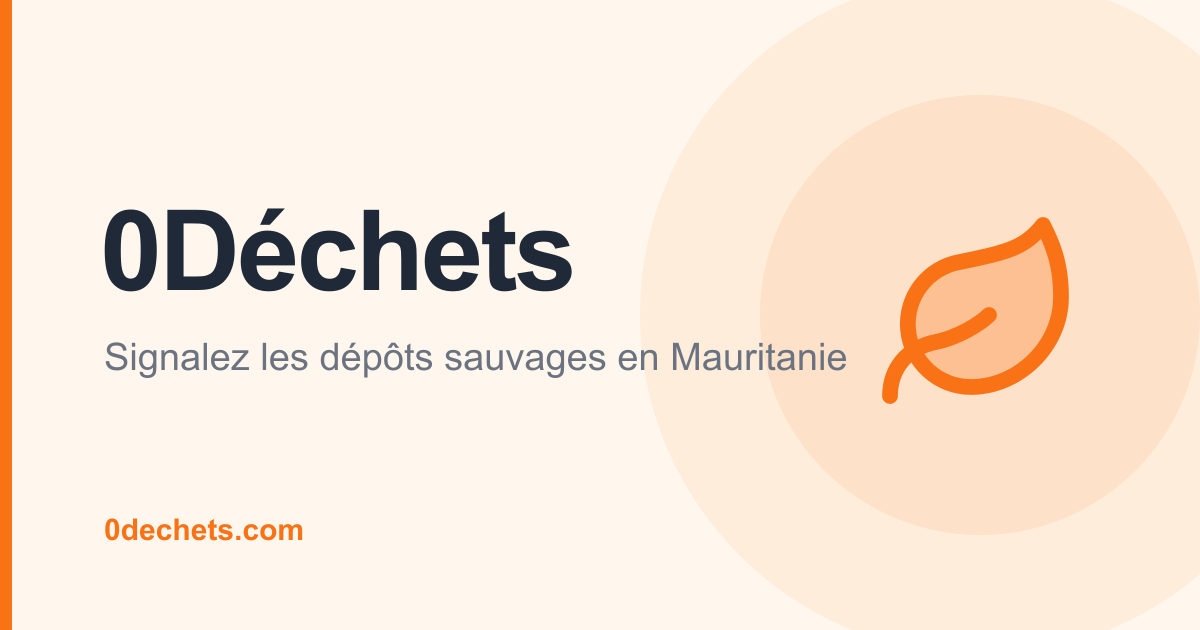
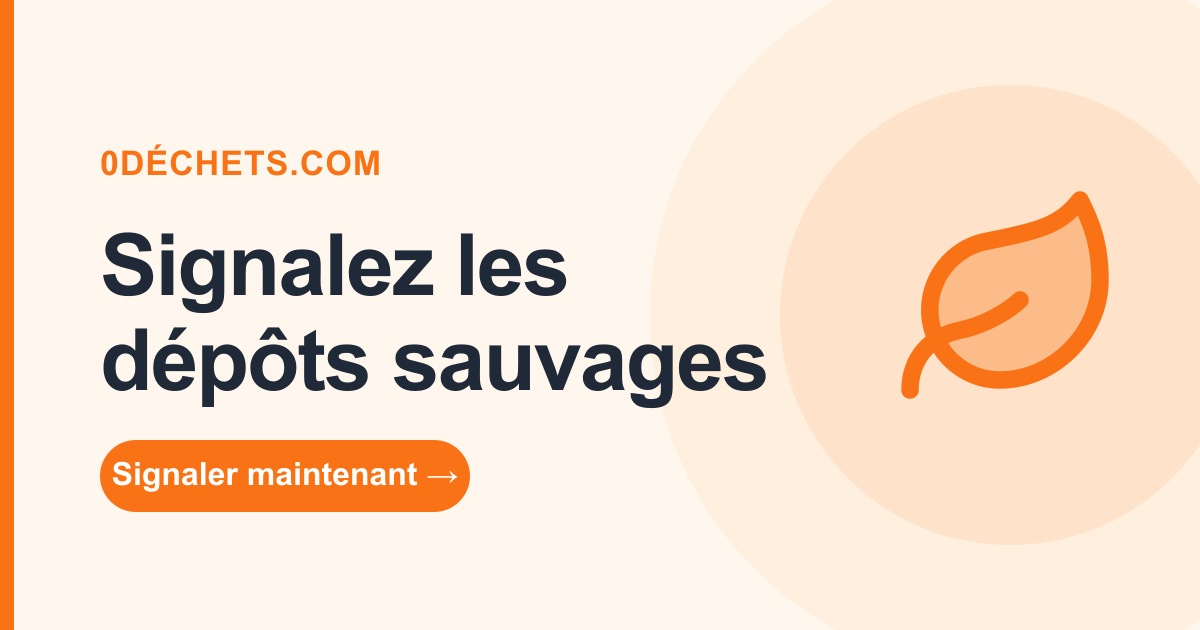
fix metadata and OG image

diff --git a/app/layout.tsx b/app/layout.tsx
@@ -2,9 +2,9 @@ import type { Metadata, Viewport } from 'next';
 import './globals.css';
 
 const APP_URL = 'https://www.0dechets.com';
-const TITLE = '0Déchets — Waste Reporting in Mauritania';
+const TITLE = '0Déchets — Signalez les dépôts sauvages en Mauritanie';
 const DESCRIPTION =
-  '0Déchets is a free civic PWA for reporting illegal waste dumps, overflowing bins, and missed garbage collections across Mauritania. Take a photo, pin the location, and hold local authorities accountable.';
+  'Dépôt sauvage ou benne débordante en Mauritanie ? Prenez une photo, épinglez le lieu et alertez votre communauté. Signalez en quelques secondes.';
 
 export const metadata: Metadata = {
   metadataBase: new URL(APP_URL),
@@ -14,17 +14,16 @@ export const metadata: Metadata = {
   },
   description: DESCRIPTION,
   keywords: [
-    'waste reporting Mauritania',
-    'déchets Mauritanie',
-    'illegal dump Mauritania',
-    'ARMA Holding',
-    'civic app Mauritania',
-    'garbage reporting',
-    'signalement déchets',
-    'بلاغ نفايات موريتانيا',
+    'signalement déchets Mauritanie',
+    'dépôt sauvage Mauritanie',
+    'déchets Nouakchott',
+    'application signalement déchets',
+    'benne débordante Mauritanie',
     'نفايات موريتانيا',
+    'بلاغ نفايات موريتانيا',
     '0Déchets',
-    'PWA Mauritania',
+    'application civique Mauritanie',
+    'signaler déchet',
   ],
   authors: [{ name: '0Déchets' }],
   creator: '0Déchets',
@@ -46,7 +45,7 @@ export const metadata: Metadata = {
         url: '/og-image.png',
         width: 1200,
         height: 630,
-        alt: '0Déchets — Waste Reporting Map for Mauritania',
+        alt: '0Déchets — Signalez les dépôts sauvages en Mauritanie',
       },
     ],
   },
